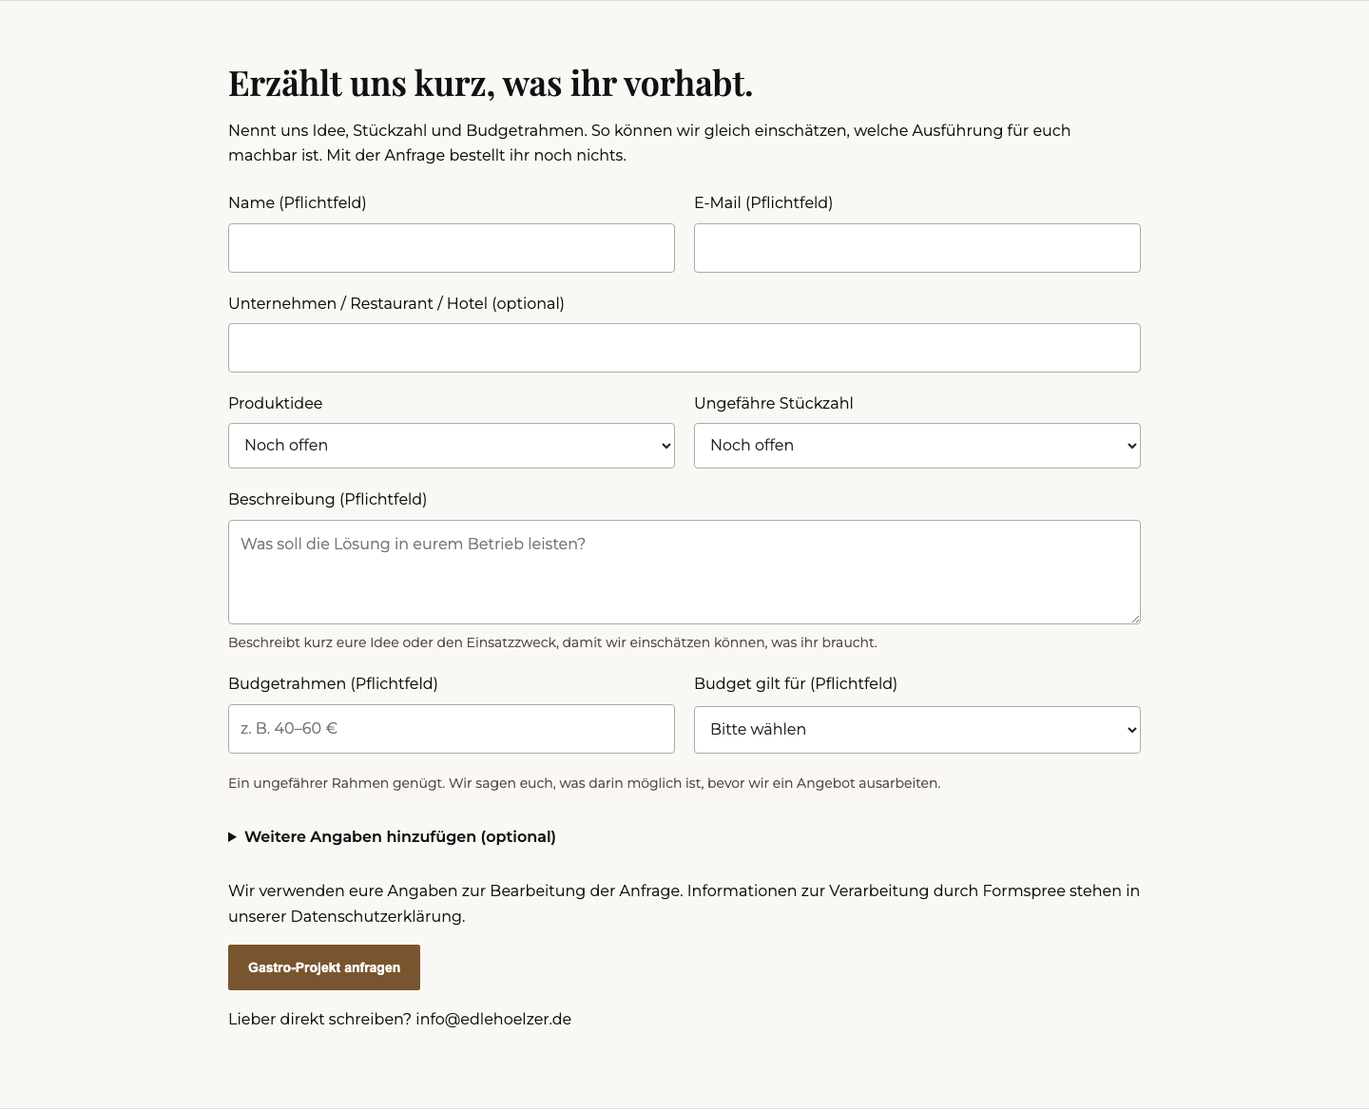
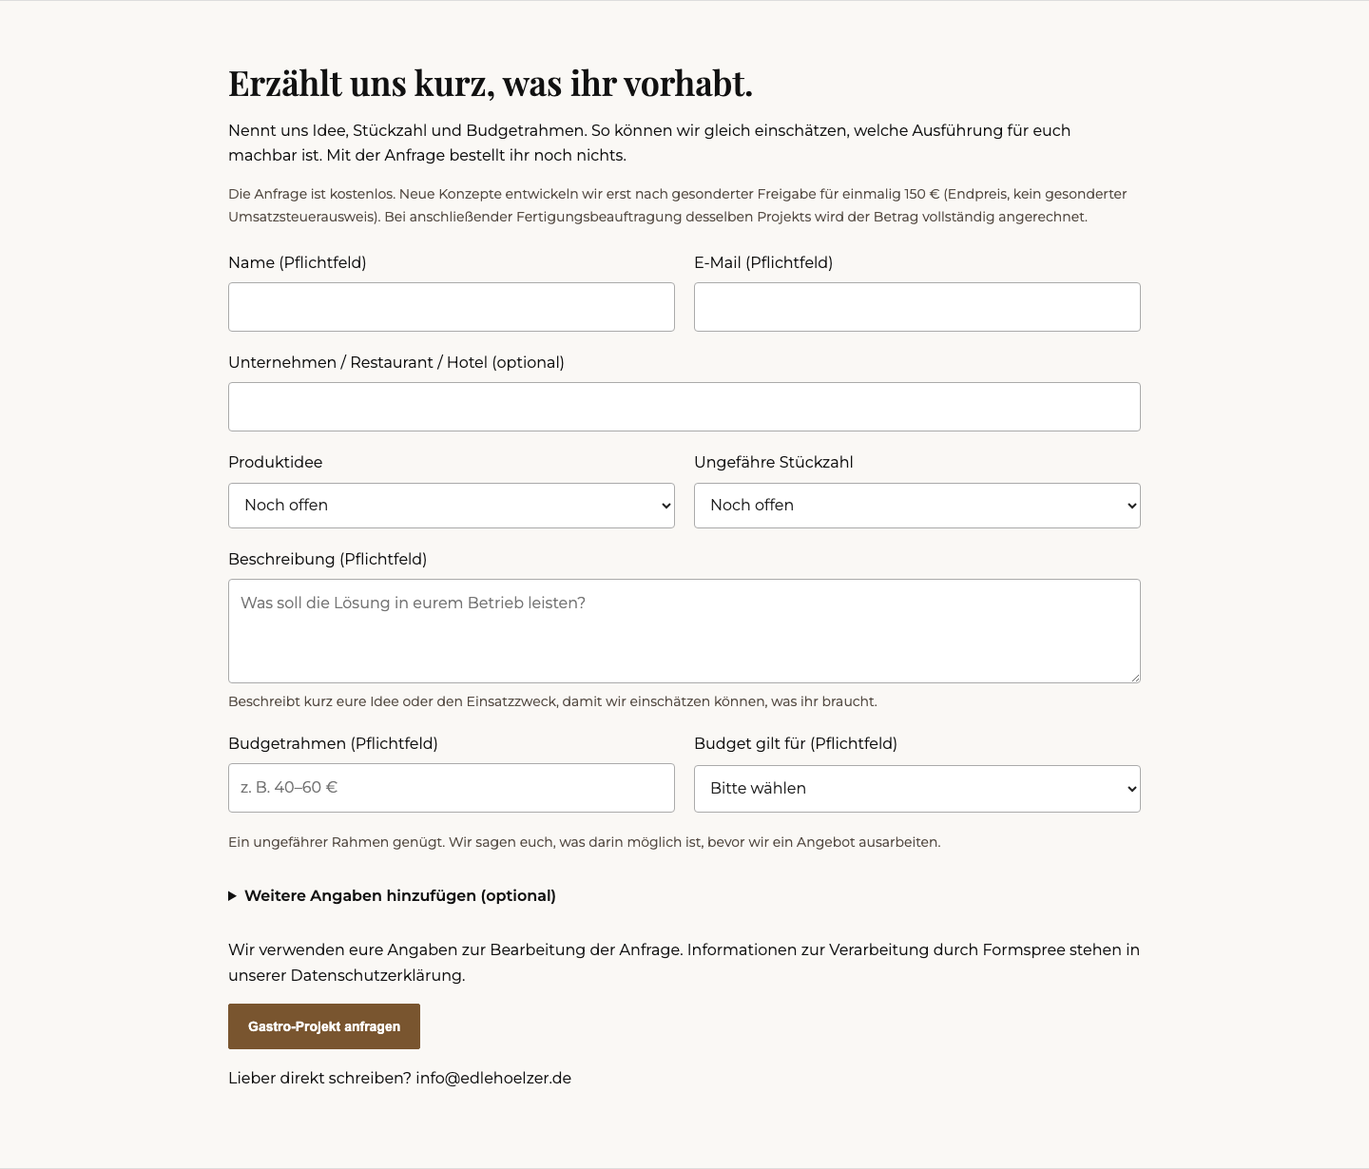
Clarify concept planning fees for hospitality and corporate projects

diff --git a/schneidebretter-aus-holz-gastronomie/index.html b/schneidebretter-aus-holz-gastronomie/index.html
@@ -26,22 +26,107 @@
   <link rel="stylesheet" href="/assets/css/board-inquiry.css">
   <link rel="stylesheet" href="/assets/css/gastronomie.css?v=20261026-bilingual">
   <script type="application/ld+json">
-  {
-    "@context": "https://schema.org",
-    "@graph": [
-      {"@type":"WebPage","@id":"https://edlehoelzer.de/schneidebretter-aus-holz-gastronomie/#webpage","url":"https://edlehoelzer.de/schneidebretter-aus-holz-gastronomie/","name":"Schneidebretter & Holzlösungen für Gastronomie | Edle Hölzer","description":"Individuelle Schneide- und Servierbretter aus Massivholz für Restaurants und Hotels. Maß, Logo, Saftrille und kompakte Holzlösungen aus Mittelhessen.","inLanguage":"de","isPartOf":{"@type":"WebSite","name":"Edle Hölzer","url":"https://edlehoelzer.de/"},"breadcrumb":{"@id":"https://edlehoelzer.de/schneidebretter-aus-holz-gastronomie/#breadcrumb"}},
-      {"@type":"BreadcrumbList","@id":"https://edlehoelzer.de/schneidebretter-aus-holz-gastronomie/#breadcrumb","itemListElement":[{"@type":"ListItem","position":1,"name":"Startseite","item":"https://edlehoelzer.de/"},{"@type":"ListItem","position":2,"name":"Schneidebretter für Gastronomie","item":"https://edlehoelzer.de/schneidebretter-aus-holz-gastronomie/"}]},
-      {"@type":"FAQPage","@id":"https://edlehoelzer.de/schneidebretter-aus-holz-gastronomie/#faq","mainEntity":[
-        {"@type":"Question","name":"Fertigt ihr auch Produkte außerhalb klassischer Schneidebretter?","acceptedAnswer":{"@type":"Answer","text":"Ja. Frühstücks-, Brunch- und Serviertabletts können wir individuell gestalten. Auch bestimmte Umbaumaßnahmen im Innenausbau sind nach gemeinsamer Abstimmung möglich. Umfang, Material, Budget und Machbarkeit klären wir vorab."}},
-        {"@type":"Question","name":"Sind kleine Stückzahlen möglich?","acceptedAnswer":{"@type":"Answer","text":"Ja. Einzelstücke und Serien bis zu 100 Exemplaren sind möglich. Ausführung, Stückpreis und Liefertermin stimmen wir passend zu eurem Projekt und Budget ab."}},
-        {"@type":"Question","name":"Sind Sondermaße möglich?","acceptedAnswer":{"@type":"Answer","text":"Ja, wenn Format und Aufbau für die geplante Nutzung technisch sinnvoll sind. Maße, Stärke, Gewicht und Handhabung stimmen wir vor der Fertigung ab."}},
-        {"@type":"Question","name":"Kann unser Logo graviert werden?","acceptedAnswer":{"@type":"Answer","text":"Je nach Produkt und Motiv ist eine Logo-Gravur möglich. Größe, Position und Lesbarkeit prüfen wir auf dem gewählten Holz, bevor ihr die Ausführung freigebt."}},
-        {"@type":"Question","name":"Können wir euch unsere eigene Idee schicken?","acceptedAnswer":{"@type":"Answer","text":"Ja. Eine Beschreibung der Idee und des Einsatzzwecks reicht für die erste Einschätzung. Maße, Skizzen oder Fotos können wir anschließend gemeinsam durchgehen."}}
-,
-        {"@type":"Question","name":"Sind auch Schneid- oder Thekenauflagen aus Kunststoff möglich?","acceptedAnswer":{"@type":"Answer","text":"Für Metzgereien, Gastronomie und andere Lebensmittelbetriebe prüfen wir auf Anfrage auch individuelle Zuschnitte und Ausführungen aus Polyethylen, beispielsweise PE 500. Material, Maße und Bearbeitung stimmen wir auf den vorgesehenen Einsatz und eure Hygieneanforderungen ab. Voraussetzung sind geeignete Materialnachweise und die technische Umsetzbarkeit."}}
-      ]}
-    ]
-  }
+{
+  "@context": "https://schema.org",
+  "@graph": [
+    {
+      "@type": "WebPage",
+      "@id": "https://edlehoelzer.de/schneidebretter-aus-holz-gastronomie/#webpage",
+      "url": "https://edlehoelzer.de/schneidebretter-aus-holz-gastronomie/",
+      "name": "Schneidebretter & Holzlösungen für Gastronomie | Edle Hölzer",
+      "description": "Individuelle Schneide- und Servierbretter aus Massivholz für Restaurants und Hotels. Maß, Logo, Saftrille und kompakte Holzlösungen aus Mittelhessen.",
+      "inLanguage": "de",
+      "isPartOf": {
+        "@type": "WebSite",
+        "name": "Edle Hölzer",
+        "url": "https://edlehoelzer.de/"
+      },
+      "breadcrumb": {
+        "@id": "https://edlehoelzer.de/schneidebretter-aus-holz-gastronomie/#breadcrumb"
+      }
+    },
+    {
+      "@type": "BreadcrumbList",
+      "@id": "https://edlehoelzer.de/schneidebretter-aus-holz-gastronomie/#breadcrumb",
+      "itemListElement": [
+        {
+          "@type": "ListItem",
+          "position": 1,
+          "name": "Startseite",
+          "item": "https://edlehoelzer.de/"
+        },
+        {
+          "@type": "ListItem",
+          "position": 2,
+          "name": "Schneidebretter für Gastronomie",
+          "item": "https://edlehoelzer.de/schneidebretter-aus-holz-gastronomie/"
+        }
+      ]
+    },
+    {
+      "@type": "FAQPage",
+      "@id": "https://edlehoelzer.de/schneidebretter-aus-holz-gastronomie/#faq",
+      "mainEntity": [
+        {
+          "@type": "Question",
+          "name": "Was kosten Anfrage und individuelle Planung?",
+          "acceptedAnswer": {
+            "@type": "Answer",
+            "text": "Die Anfrage und eine erste Kostenindikation auf Basis unseres bestehenden Sortiments sind kostenlos. Soll für das Projekt ein neues Produktkonzept oder eine individuelle Lösung entwickelt werden, vereinbaren wir vorab eine einmalige Konzept- und Planungspauschale von 150 € als Endpreis. Umsatzsteuer wird nicht gesondert ausgewiesen. Leistungsumfang und Kosten werden vor Beginn gesondert freigegeben. Bei anschließender Beauftragung der Fertigung desselben Projekts rechnen wir die Pauschale vollständig auf die Rechnung an. Ohne Fertigungsauftrag bleibt sie die Vergütung für die vereinbarte Konzeptarbeit."
+          }
+        },
+        {
+          "@type": "Question",
+          "name": "Fertigt ihr auch Produkte außerhalb klassischer Schneidebretter?",
+          "acceptedAnswer": {
+            "@type": "Answer",
+            "text": "Ja. Frühstücks-, Brunch- und Serviertabletts können wir individuell gestalten. Auch bestimmte Umbaumaßnahmen im Innenausbau sind nach gemeinsamer Abstimmung möglich. Umfang, Material, Budget und Machbarkeit klären wir vorab."
+          }
+        },
+        {
+          "@type": "Question",
+          "name": "Sind kleine Stückzahlen möglich?",
+          "acceptedAnswer": {
+            "@type": "Answer",
+            "text": "Ja. Einzelstücke und Serien bis zu 100 Exemplaren sind möglich. Ausführung, Stückpreis und Liefertermin stimmen wir passend zu eurem Projekt und Budget ab."
+          }
+        },
+        {
+          "@type": "Question",
+          "name": "Sind Sondermaße möglich?",
+          "acceptedAnswer": {
+            "@type": "Answer",
+            "text": "Ja, wenn Format und Aufbau für die geplante Nutzung technisch sinnvoll sind. Maße, Stärke, Gewicht und Handhabung stimmen wir vor der Fertigung ab."
+          }
+        },
+        {
+          "@type": "Question",
+          "name": "Kann unser Logo graviert werden?",
+          "acceptedAnswer": {
+            "@type": "Answer",
+            "text": "Je nach Produkt und Motiv ist eine Logo-Gravur möglich. Größe, Position und Lesbarkeit prüfen wir auf dem gewählten Holz, bevor ihr die Ausführung freigebt."
+          }
+        },
+        {
+          "@type": "Question",
+          "name": "Können wir euch unsere eigene Idee schicken?",
+          "acceptedAnswer": {
+            "@type": "Answer",
+            "text": "Ja. Eine Beschreibung der Idee und des Einsatzzwecks reicht für die erste Einschätzung. Maße, Skizzen oder Fotos können wir anschließend gemeinsam durchgehen."
+          }
+        },
+        {
+          "@type": "Question",
+          "name": "Sind auch Schneid- oder Thekenauflagen aus Kunststoff möglich?",
+          "acceptedAnswer": {
+            "@type": "Answer",
+            "text": "Für Metzgereien, Gastronomie und andere Lebensmittelbetriebe prüfen wir auf Anfrage auch individuelle Zuschnitte und Ausführungen aus Polyethylen, beispielsweise PE 500. Material, Maße und Bearbeitung stimmen wir auf den vorgesehenen Einsatz und eure Hygieneanforderungen ab. Voraussetzung sind geeignete Materialnachweise und die technische Umsetzbarkeit."
+          }
+        }
+      ]
+    }
+  ]
+}
   </script>
   <script src="/assets/js/consent-manager.js?v=20260823-intent" defer></script>
   <script src="/assets/js/page-summary.js" defer></script>
@@ -134,6 +219,7 @@
     <div class="container">
       <h2 id="inquiry-title">Erzählt uns kurz, was ihr vorhabt.</h2>
       <p>Nennt uns Idee, Stückzahl und Budgetrahmen. So können wir gleich einschätzen, welche Ausführung für euch machbar ist. Mit der Anfrage bestellt ihr noch nichts.</p>
+      <p class="gastroBudgetHelp" data-concept-cost>Die Anfrage ist kostenlos. Neue Konzepte entwickeln wir erst nach gesonderter Freigabe für einmalig 150 € (Endpreis, kein gesonderter Umsatzsteuerausweis). Bei anschließender Fertigungsbeauftragung desselben Projekts wird der Betrag vollständig angerechnet.</p>
       <form data-board-inquiry action="https://formspree.io/f/maqanpld" method="POST">
         <input type="hidden" name="_subject" value="Gastronomie-Projektanfrage über edlehoelzer.de">
         <input type="hidden" name="reference" value="">
@@ -195,6 +281,7 @@
 
   <section id="faq" class="section section--white" aria-labelledby="faq-title">
     <div class="container"><h2 id="faq-title">Häufige Fragen</h2><div class="faqList">
+      <details class="faqItem" data-concept-cost><summary>Was kosten Anfrage und individuelle Planung?</summary><p>Die Anfrage und eine erste Kostenindikation auf Basis unseres bestehenden Sortiments sind kostenlos. Soll für das Projekt ein neues Produktkonzept oder eine individuelle Lösung entwickelt werden, vereinbaren wir vorab eine einmalige Konzept- und Planungspauschale von 150 € als Endpreis. Umsatzsteuer wird nicht gesondert ausgewiesen. Leistungsumfang und Kosten werden vor Beginn gesondert freigegeben. Bei anschließender Beauftragung der Fertigung desselben Projekts rechnen wir die Pauschale vollständig auf die Rechnung an. Ohne Fertigungsauftrag bleibt sie die Vergütung für die vereinbarte Konzeptarbeit.</p></details>
       <details class="faqItem"><summary>Fertigt ihr auch Produkte außerhalb klassischer Schneidebretter?</summary><p>Ja. Frühstücks-, Brunch- und Serviertabletts können wir individuell gestalten. Auch bestimmte Umbaumaßnahmen im Innenausbau sind nach gemeinsamer Abstimmung möglich. Umfang, Material, Budget und Machbarkeit klären wir vorab.</p></details>
       <details class="faqItem"><summary>Sind kleine Stückzahlen möglich?</summary><p>Ja. Einzelstücke und Serien bis zu 100 Exemplaren sind möglich. Ausführung, Stückpreis und Liefertermin stimmen wir passend zu eurem Projekt und Budget ab.</p></details>
       <details class="faqItem"><summary>Sind Sondermaße möglich?</summary><p>Ja, wenn Format und Aufbau für die geplante Nutzung technisch sinnvoll sind. Maße, Stärke, Gewicht und Handhabung stimmen wir vor der Fertigung ab.</p></details>

diff --git a/en/wooden-cutting-boards-for-restaurants/index.html b/en/wooden-cutting-boards-for-restaurants/index.html
@@ -69,6 +69,14 @@
       "mainEntity": [
         {
           "@type": "Question",
+          "name": "What do an enquiry and bespoke planning cost?",
+          "acceptedAnswer": {
+            "@type": "Answer",
+            "text": "Your enquiry and an initial cost indication based on our existing range are free. If your project requires a new product concept or a bespoke solution to be developed, we agree a one-off concept and planning fee of €150 as the final price in advance. VAT is not shown separately. The scope and fee require separate approval before work begins. If you subsequently commission production for the same project, we deduct the full fee from its invoice. Without a production order, the fee remains payment for the agreed concept work."
+          }
+        },
+        {
+          "@type": "Question",
           "name": "Do you make products other than cutting boards?",
           "acceptedAnswer": {
             "@type": "Answer",
@@ -211,6 +219,7 @@
     <div class="container">
       <h2 id="inquiry-title">Tell us about your project.</h2>
       <p>Share your idea, approximate quantity and budget so we can assess suitable options. An enquiry is not an order.</p>
+      <p class="gastroBudgetHelp" data-concept-cost>Your enquiry is free. Development of a new concept requires separate approval of a one-off €150 fee (final price; VAT not shown separately). The full amount is credited if you subsequently commission production for the same project.</p>
       <form data-board-inquiry action="https://formspree.io/f/maqanpld" method="POST">
         <input type="hidden" name="_subject" value="Hospitality project enquiry via edlehoelzer.de">
         <input type="hidden" name="reference" value="">
@@ -272,6 +281,7 @@
 
   <section id="faq" class="section section--white" aria-labelledby="faq-title">
     <div class="container"><h2 id="faq-title">Frequently asked questions</h2><div class="faqList">
+      <details class="faqItem" data-concept-cost><summary>What do an enquiry and bespoke planning cost?</summary><p>Your enquiry and an initial cost indication based on our existing range are free. If your project requires a new product concept or a bespoke solution to be developed, we agree a one-off concept and planning fee of €150 as the final price in advance. VAT is not shown separately. The scope and fee require separate approval before work begins. If you subsequently commission production for the same project, we deduct the full fee from its invoice. Without a production order, the fee remains payment for the agreed concept work.</p></details>
       <details class="faqItem"><summary>Do you make products other than cutting boards?</summary><p>Yes. We can design custom breakfast, brunch and serving trays. Certain interior alterations may also be possible following consultation. We agree scope, materials, budget and feasibility in advance.</p></details>
       <details class="faqItem"><summary>Are small quantities possible?</summary><p>Yes. We can make single pieces and batches of up to 100. Design, unit price and delivery date are agreed to suit your project and budget.</p></details>
       <details class="faqItem"><summary>Can you make custom sizes?</summary><p>Yes, where the dimensions and construction are practical for the intended use. We agree dimensions, thickness, weight and handling before production.</p></details>

diff --git a/handgefertigte-holzprodukte-fuer-unternehmen/index.html b/handgefertigte-holzprodukte-fuer-unternehmen/index.html
@@ -43,6 +43,7 @@
   "@context": "https://schema.org",
   "@type": "FAQPage",
   "mainEntity": [
+    {"@type":"Question","name":"Was kosten Anfrage und individuelle Planung?","acceptedAnswer":{"@type":"Answer","text":"Die Anfrage und eine erste Kostenindikation auf Basis unseres bestehenden Sortiments sind kostenlos. Soll für das Projekt ein neues Produktkonzept oder eine individuelle Lösung entwickelt werden, vereinbaren wir vorab eine einmalige Konzept- und Planungspauschale von 150 € als Endpreis. Umsatzsteuer wird nicht gesondert ausgewiesen. Leistungsumfang und Kosten werden vor Beginn gesondert freigegeben. Bei anschließender Beauftragung der Fertigung desselben Projekts rechnen wir die Pauschale vollständig auf die Rechnung an. Ohne Fertigungsauftrag bleibt sie die Vergütung für die vereinbarte Konzeptarbeit."}},
     {
       "@type": "Question",
       "name": "Gibt es eine Mindestbestellmenge?",
@@ -870,6 +871,10 @@
         <h2>Häufige Fragen vor der Anfrage.</h2>
       </div>
       <div class="b2b-faq">
+        <div class="b2b-faq-item" data-concept-cost>
+          <h3>Was kosten Anfrage und individuelle Planung?</h3>
+          <p>Die Anfrage und eine erste Kostenindikation auf Basis unseres bestehenden Sortiments sind kostenlos. Soll für das Projekt ein neues Produktkonzept oder eine individuelle Lösung entwickelt werden, vereinbaren wir vorab eine einmalige Konzept- und Planungspauschale von 150 € als Endpreis. Umsatzsteuer wird nicht gesondert ausgewiesen. Leistungsumfang und Kosten werden vor Beginn gesondert freigegeben. Bei anschließender Beauftragung der Fertigung desselben Projekts rechnen wir die Pauschale vollständig auf die Rechnung an. Ohne Fertigungsauftrag bleibt sie die Vergütung für die vereinbarte Konzeptarbeit.</p>
+        </div>
         <div class="b2b-faq-item">
           <h3>Gibt es eine Mindestbestellmenge?</h3>
           <p>Ja. Standardprodukte starten in der Regel ab 10 Stück. Für stärker individualisierte Projekte liegt die sinnvolle Menge meist ab 25 Stück.</p>
@@ -894,6 +899,7 @@
           <h2>Firmengeschenke anfragen</h2>
           <p>Was möchtest du für dein Unternehmen umsetzen? Eine kurze Nachricht genügt. Weitere Details klären wir gemeinsam.</p>
           <p id="ablauf">Nach deiner Anfrage stimmen wir die Details ab. Du erhältst ein Angebot mit Preis und Zeitrahmen. Erst nach deiner Freigabe setzen wir den Auftrag um.</p>
+          <p class="b2b-hint" data-concept-cost>Die Anfrage ist kostenlos. Neue Konzepte entwickeln wir erst nach gesonderter Freigabe für einmalig 150 € (Endpreis, kein gesonderter Umsatzsteuerausweis). Bei anschließender Fertigungsbeauftragung desselben Projekts wird der Betrag vollständig angerechnet.</p>
           <form class="b2b-form" action="https://formspree.io/f/maqanpld" method="POST">
             <label class="b2b-label b2b-honeypot" aria-hidden="true">Nicht ausfüllen<input class="b2b-input" type="text" name="_gotcha" tabindex="-1" autocomplete="off"></label>
             <input type="hidden" name="_subject" value="Neue B2B-Anfrage über edlehoelzer.de">

diff --git a/docs/gastronomie-landingpage-2026-10-26.md b/docs/gastronomie-landingpage-2026-10-26.md
@@ -41,13 +41,13 @@ Eine H1. Die expliziten Begriffe „Schneidebretter“ und „Servierbretter“ 
 5. Anfrageformular mit sichtbarem Pflichtbudget, noch vor den Referenzprodukten.
 6. Vier Einzelangebote als Preis- und Produktreferenz; mobil ebenfalls horizontal durchsehbar.
 7. Kurze Kompetenz-/Machbarkeitseinordnung und ein Werkstattabschnitt.
-8. Sechs synchronisierte, zugängliche FAQ.
+8. Sieben synchronisierte, zugängliche FAQ.
 
 Kein separater Planungs-/Fräsabschnitt, kein zusätzlicher Standardwaren-, Anpassungs- oder Ablaufblock. Die für die Entscheidung nötigen Punkte sind in Preisorientierung, Anfrage und Machbarkeit zusammengeführt.
 
 ## 6. Wortzahl
 
-771–783 zunächst sichtbare Wörter im Hauptinhalt einschließlich bedingter Pflichtbeschreibung, Produktkarten und ihrer je Bildschirmbreite sichtbaren Mediensteuerung, ursprünglich 1.025–1.037. Zugeklappte FAQ-Antworten und optionale Formularangaben erhöhen die zugängliche Textmenge. Navigation und Footer sind ausgeschlossen. Die mobile Swipe-Auswahl verkürzt zusätzlich die vertikale Strecke; eine Conversion-Wirkung wurde nicht gemessen.
+807–819 zunächst sichtbare Wörter im Hauptinhalt einschließlich bedingter Pflichtbeschreibung, Produktkarten und ihrer je Bildschirmbreite sichtbaren Mediensteuerung, ursprünglich 1.025–1.037. Zugeklappte FAQ-Antworten und optionale Formularangaben erhöhen die zugängliche Textmenge. Navigation und Footer sind ausgeschlossen. Die mobile Swipe-Auswahl verkürzt zusätzlich die vertikale Strecke; eine Conversion-Wirkung wurde nicht gemessen.
 
 ## 7. Bildaudit und Verwendung
 
@@ -98,7 +98,7 @@ Zwei Einträge (DE/EN) in der bestehenden `sitemap.xml`, `lastmod` 2026-10-26. K
 
 ## 12. Schema
 
-`WebPage`, `BreadcrumbList`, `FAQPage` mit sechs sichtbaren, inhaltlich identischen Fragen/Antworten. Zugeklappte Antworten sind über native `details` erreichbar. Kein Product-Schema, keine erfundenen Offers, Reviews oder Kundenreferenzen.
+`WebPage`, `BreadcrumbList`, `FAQPage` mit sieben sichtbaren, inhaltlich identischen Fragen/Antworten. Zugeklappte Antworten sind über native `details` erreichbar. Kein Product-Schema, keine erfundenen Offers, Reviews oder Kundenreferenzen.
 
 ## 13. Formularfelder und Übermittlung
 
@@ -120,7 +120,7 @@ Zwei vorhandene Umami-Klickattribute für `gastro_portfolio_open` und `gastro_cu
 
 ## 15. Tests und Screenshots
 
-- 85 JavaScript-Tests: 75 bestehende plus zehn Gastronomie-Prüfungen.
+- 86 JavaScript-Tests: 75 bestehende plus elf Gastronomie-Prüfungen.
 - 32 Python-Tests.
 - Indexierbarkeit und Zusammenfassungen: bestanden; Suchindex jetzt 45 Seiten.
 - Asset-Audit: 265 Medien, keine kritischen Befunde; 24 bestehende Hinweise außerhalb des Auftrags.
@@ -177,9 +177,22 @@ Nach erneuter Owner-Abstimmung sind individuelle Frühstücks-, Brunch- und Serv
 - DE: https://edlehoelzer.de/schneidebretter-aus-holz-gastronomie/
 - EN: https://edlehoelzer.de/en/wooden-cutting-boards-for-restaurants/
 - Die alte deutsche Vorschau-Route leitet per HTML-Weiterleitung weiter (noindex, nicht in der Sitemap). Dies ist kein serverseitiger HTTP-301; die Route war bisher nicht veröffentlicht.
-- Vollständige englische Seite mit denselben sechs FAQ, Referenzprodukten und bedingter Pflichtbeschreibung. Gegenseitige hreflang- und sichtbare Sprachlinks. Bestehende weiterführende Fachseiten ohne englische Entsprechung bleiben deutsch verlinkt.
+- Vollständige englische Seite mit denselben sieben FAQ, Referenzprodukten und bedingter Pflichtbeschreibung. Gegenseitige hreflang- und sichtbare Sprachlinks. Bestehende weiterführende Fachseiten ohne englische Entsprechung bleiben deutsch verlinkt.
 - Formularstatus und Beschreibungstexte werden sprachabhängig ausgegeben; Produktkarten verwenden die bestehende Produktübersetzung.
 - PE 500 wird ausschließlich als auf Anfrage zu prüfende Sonderlösung beschrieben. Materialnachweise, vorgesehener Einsatz, Hygieneanforderungen und technische Umsetzbarkeit sind Voraussetzungen. Keine pauschale Zulassung, Zertifizierung oder Eignung für Dauerkontakt behauptet.
 - Grundlagen: [EU-Lebensmittelhygieneverordnung](https://eur-lex.europa.eu/legal-content/DE/TXT/?uri=CELEX%3A02004R0852-20210324), [LGL zu Kunststoff-Konformität](https://www.lgl.bayern.de/lebensmittel/ueberwachung/et_schwerpunktaktivitaeten_lebensmittelkontaktmaterialien_kunststoff.htm), [Röchling zu PE-Schneidplatten](https://www.roechling.com/de/industrial/produkte/thermoplastische-fertigteile/hygiene-schneidplatten).
-- Englische sichtbare Wortzahl je Breite: 832–865; deutsche Wortzahl 771–783. Beide Sprachen auf allen fünf Breiten mit Bildladen, internem Produktfenster, Touch/Tastatur und simuliertem Fehler-/Erfolgsversand geprüft.
+- Englische sichtbare Wortzahl je Breite: 877–910; deutsche Wortzahl 807–819. Beide Sprachen auf allen fünf Breiten mit Bildladen, internem Produktfenster, Touch/Tastatur und simuliertem Fehler-/Erfolgsversand geprüft.
 - Indexierung erst nach Merge und erfolgreichem Deployment beantragen. Vorschau bleibt noindex.
+
+## 20. Transparente Konzept- und Planungskosten
+
+Owner-Freigabe: einmalig 150 € Endpreis, kein gesonderter Umsatzsteuerausweis. Keine ungeprüfte Angabe einer steuerrechtlichen Begründung.
+
+Die Gastronomie-Seiten in DE/EN und die Firmengeschenke-Seite enthalten einen kurzen Hinweis vor dem Formular und eine ausführliche FAQ mit synchronem Schema:
+- Anfrage und erste Kostenindikation anhand bestehender Produkte bleiben kostenlos.
+- Eine neue Konzeptentwicklung erfordert vor Beginn eine gesonderte Freigabe von Leistungsumfang und Kosten.
+- Bei anschließender Fertigungsbeauftragung desselben Projekts wird die Pauschale vollständig auf die Rechnung angerechnet.
+- Ohne Fertigungsauftrag bleibt sie die Vergütung für die vereinbarte Konzeptarbeit.
+- Das Absenden des Formulars beauftragt keine kostenpflichtige Planung; kein Zahlungsfeld, kein automatischer Gebühreneinzug.
+- Der bestehende B2B-Migrationsschutz erlaubt ausschließlich diese freigegebenen Ergänzungen zusätzlich zum Gastro-Verweis.
+- Auf der Firmengeschenke-Seite existiert bisher keine eigene englische Route; die vorhandene englische Gastronomie-Seite ist vollständig angepasst.
